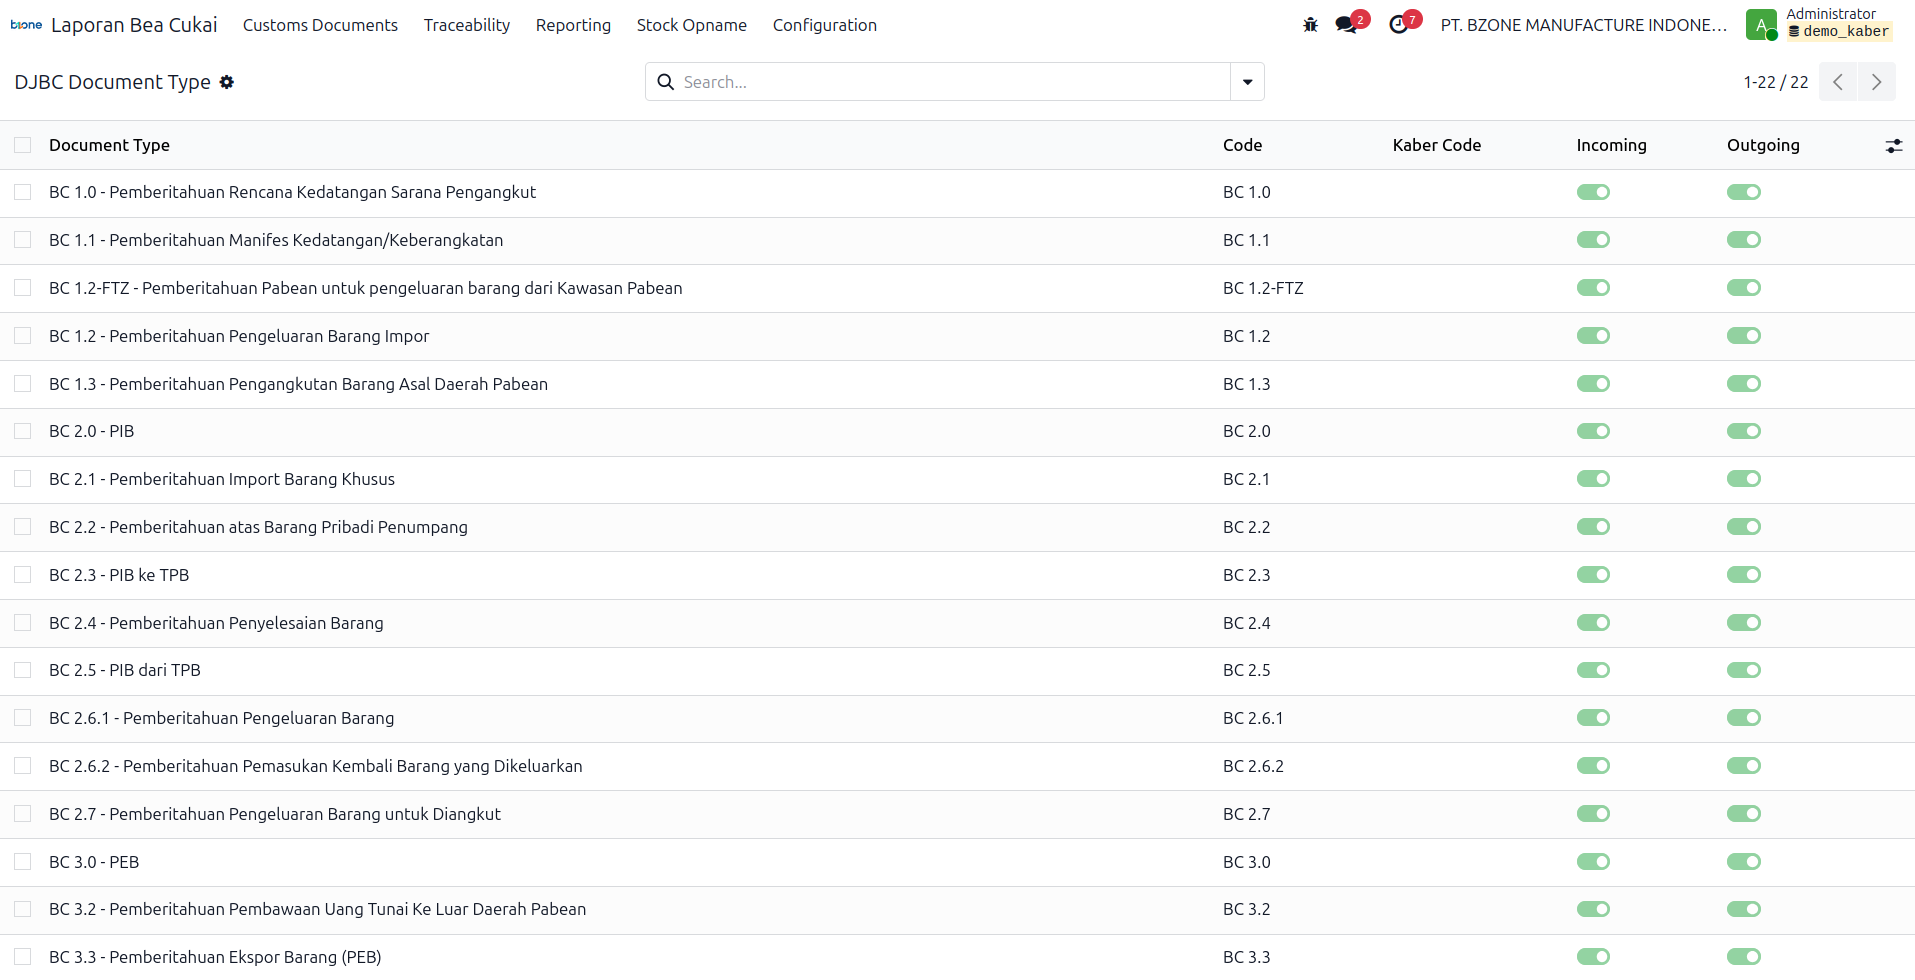
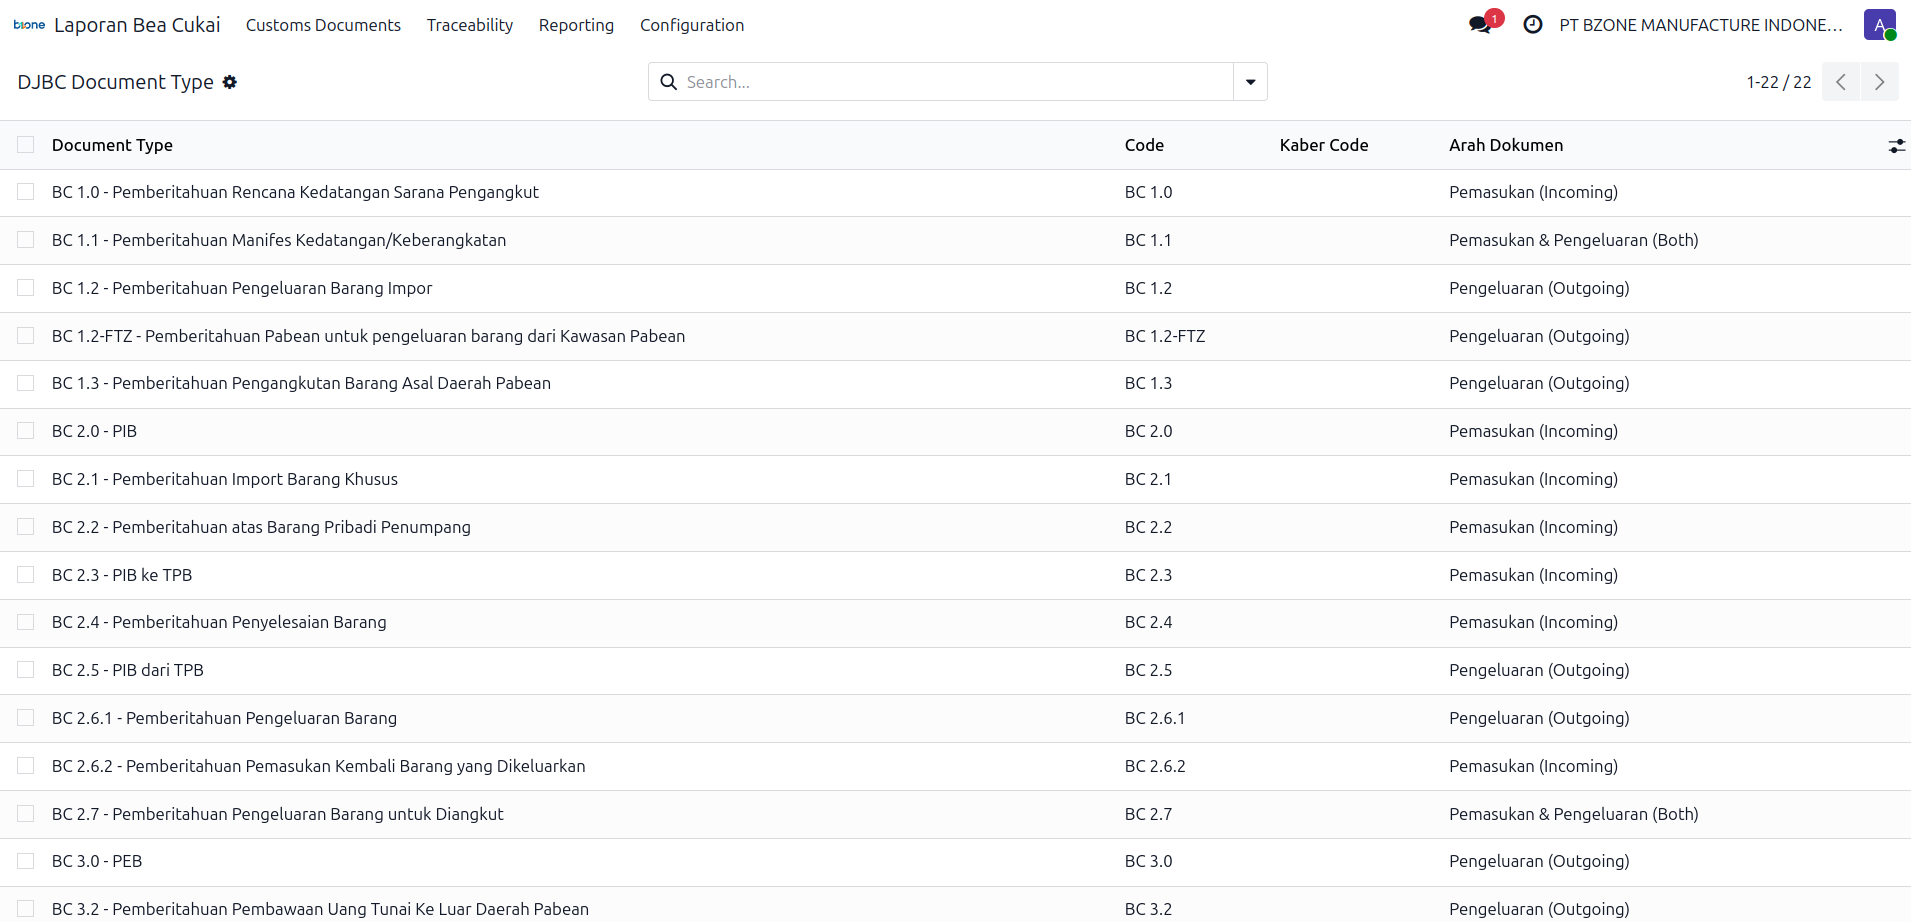
[ADD]rule expor pkb

diff --git a/CHECKPOINT_REORGANISASI_ASSETS.md b/CHECKPOINT_REORGANISASI_ASSETS.md
@@ -1,0 +1,133 @@
+# Checkpoint: Rencana Reorganisasi Tangkapan Layar (Screenshots) BZone Docs
+
+Dokumen ini adalah rencana dan panduan eksekusi untuk menata ulang folder `assets/images/` di `bzone_docs` agar terstruktur per modul dan mudah dicari saat dokumentasi semakin berkembang.
+
+---
+
+## 1. Struktur Target Folder
+
+Folder `assets/images/` akan dikelompokkan ke dalam subfolder berbasis modul:
+
+```text
+assets/images/
+├── common/                  # Aset umum, logo, icon, placeholder
+├── master_data/             # Produk, Mitra Bisnis, Bahan Baku, WIP
+├── djbc_core/               # Konfigurasi dasar modul pabean (UoM, Jenis Dokumen)
+├── ceisa_expor/             # Tangkapan layar alur Dokumen Ekspor (BC 3.0 / BC 3.3)
+├── ceisa_tpb/               # Tangkapan layar alur Dokumen TPB (BC 2.3, 2.7, 4.0, dsb)
+├── ceisa_impor/             # Tangkapan layar alur Dokumen Impor (BC 2.0)
+├── ceisa_ftz/               # Tangkapan layar alur Dokumen FTZ (PPFTZ)
+├── kawasan_berikat/         # IT Inventory, Mutasi, dan Rekonsiliasi Pabean
+└── operasional/             # Alur proses operasional ERP
+    ├── sales/               # Penjualan
+    ├── purchase/            # Pengadaan / Pembelian
+    ├── mrp/                 # Manufaktur & BoM
+    └── accounting/          # Keuangan, Faktur, Vendor Bill
+```
+
+---
+
+## 2. Pemetaan File Saat Ini (55 File)
+
+| Subfolder Target | File Gambar |
+| :--- | :--- |
+| **`common/`** | `icon.png`<br>`menu_utama_odoo.png`<br>`dashboard_overview.png`<br>`placeholder_screenshot.svg`<br>`placeholder_header.png`<br>`placeholder_entitas.png`<br>`placeholder_dokumen_pelengkap.png`<br>`placeholder_pengangkut.png`<br>`placeholder_kemasan.png`<br>`placeholder_keuangan.png`<br>`placeholder_barang.png` |
+| **`master_data/`** | `master_customer_form.png`<br>`master_vendor_form.png`<br>`master_produk_general.png`<br>`master_produk_routes.png`<br>`master_produk_djbc.png`<br>`barang_raw_material.png`<br>`barang_wip.png` |
+| **`djbc_core/`** | `djbc_document_type.png`<br>`djbc_uom_mapping.png` |
+| **`ceisa_expor/`** | `ceisa_expor_header.png`<br>`ceisa_expor_entitas.png`<br>`ceisa_expor_dokumen_pelengkap.png`<br>`ceisa_expor_pengangkut.png`<br>`ceisa_expor_bankdevisa.png`<br>`ceisa_expor_barang.png` |
+| **`ceisa_tpb/`** | `ceisa_tpb_header.png`<br>`ceisa_tpb_entitas.png`<br>`ceisa_tpb_dokumen_pelengkap.png`<br>`ceisa_tpb_pengangkut.png`<br>`ceisa_tpb_kemasan.png`<br>`ceisa_tpb_keuangan.png`<br>`ceisa_tpb_barang.png` |
+| **`kawasan_berikat/`** | `kb_product_category.png`<br>`kb_report_wizard.png`<br>`kb_mutasi_report_preview.png`<br>`kb_checklist_transaksi_laporan.png`<br>`kb_checklist_transaksi_laporan.svg`<br>`kb_incoming_picking.png`<br>`kb_outgoing_picking.png` |
+| **`operasional/sales/`** | `sales_quotation_mto.png`<br>`sales_order_confirmed.png`<br>`sales_register_payment.png` |
+| **`operasional/purchase/`** | `purchase_rfq_new.png`<br>`purchase_order_confirm.png`<br>`purchase_vendor_bill.png` |
+| **`operasional/mrp/`** | `mrp_bom_form.png`<br>`mrp_mo_creation.png`<br>`mrp_material_transfer.png`<br>`mrp_produce_all_done.png` |
+| **`operasional/accounting/`** | `accounting_vendor_bill_payment.png`<br>`accounting_customer_invoice_confirm.png`<br>`accounting_profit_loss_report.png` |
+
+---
+
+## 3. Skrip Eksekusi Pemindahan (Bash)
+
+Jalankan perintah ini dari terminal pada direktori `/home/addons/bzone_docs/` saat Anda siap mengeksekusinya:
+
+```bash
+cd /home/addons/bzone_docs/assets/images
+
+# 1. Buat folder target
+mkdir -p common master_data djbc_core ceisa_expor ceisa_tpb ceisa_impor ceisa_ftz kawasan_berikat operasional/sales operasional/purchase operasional/mrp operasional/accounting
+
+# 2. Pindahkan file kategori Common
+mv icon.png menu_utama_odoo.png dashboard_overview.png placeholder_* common/ 2>/dev/null || true
+
+# 3. Pindahkan file kategori Master Data
+mv master_customer_form.png master_vendor_form.png master_produk_*.png barang_raw_material.png barang_wip.png master_data/ 2>/dev/null || true
+
+# 4. Pindahkan file kategori DJBC Core
+mv djbc_document_type.png djbc_uom_mapping.png djbc_core/ 2>/dev/null || true
+
+# 5. Pindahkan file kategori CEISA Expor
+mv ceisa_expor_*.png ceisa_expor/ 2>/dev/null || true
+
+# 6. Pindahkan file kategori CEISA TPB
+mv ceisa_tpb_*.png ceisa_tpb/ 2>/dev/null || true
+
+# 7. Pindahkan file kategori Kawasan Berikat
+mv kb_*.png kb_*.svg kawasan_berikat/ 2>/dev/null || true
+
+# 8. Pindahkan file Operasional ERP
+mv sales_*.png operasional/sales/ 2>/dev/null || true
+mv purchase_*.png operasional/purchase/ 2>/dev/null || true
+mv mrp_*.png operasional/mrp/ 2>/dev/null || true
+mv accounting_*.png operasional/accounting/ 2>/dev/null || true
+```
+
+---
+
+## 4. Kompatibilitas dengan Modul `bzone_documentation`
+
+Agar pemindahan file ke subfolder tidak memutus link lama di Markdown (`404 Not Found`):
+Controller `bzone_serve_asset` di `bzone_documentation/controllers/doc_controller.py` telah memiliki kemampuan resolusi berbasis nama file (`basename`). Jika file berada di subfolder `assets/images/ceisa_expor/ceisa_expor_barang.png`, request ke `/assets/images/ceisa_expor_barang.png` dapat ditemukan secara rekursif.
+
+---
+
+## 5. Skrip Pengecekan Gambar yang Tidak Digunakan (Optional)
+
+Skrip Python berikut dapat disimpan dan dijalankan untuk mengecek apakah ada gambar di `assets/images/` yang tidak pernah dirujuk dalam dokumen Markdown (`id/`, `en/`, `c_zh/`):
+
+```python
+import os
+import re
+
+ROOT_DIR = "/home/addons/bzone_docs"
+IMAGES_DIR = os.path.join(ROOT_DIR, "assets", "images")
+LANG_DIRS = [os.path.join(ROOT_DIR, d) for d in ["id", "en", "c_zh"]]
+
+# 1. Kumpulkan semua gambar yang ada di disk
+all_images = set()
+for root, _, files in os.walk(IMAGES_DIR):
+    for f in files:
+        if f.lower().endswith(('.png', '.jpg', '.jpeg', '.svg', '.webp')):
+            all_images.add(f)
+
+# 2. Pindai referensi di semua file markdown
+referenced_images = set()
+img_pattern = re.compile(r'!\[.*?\]\((.*?)\)')
+
+for ldir in LANG_DIRS:
+    for root, _, files in os.walk(ldir):
+        for f in files:
+            if f.endswith('.md'):
+                fpath = os.path.join(root, f)
+                with open(fpath, 'r', encoding='utf-8', errors='ignore') as fp:
+                    content = fp.read()
+                    matches = img_pattern.findall(content)
+                    for m in matches:
+                        clean_name = os.path.basename(m.split('?')[0].split('#')[0])
+                        referenced_images.add(clean_name)
+
+# 3. Tampilkan hasil
+unused = sorted(list(all_images - referenced_images))
+print(f"Total gambar di assets: {len(all_images)}")
+print(f"Total gambar dirujuk di dokumen: {len(referenced_images)}")
+print(f"Gambar yang tidak terpakai ({len(unused)}):")
+for u in unused:
+    print(f"  - {u}")
+```

diff --git a/id/djbc_ceisa_expor/ketentuan_ekspor_biasa_dan_pkb.md b/id/djbc_ceisa_expor/ketentuan_ekspor_biasa_dan_pkb.md
@@ -1,0 +1,102 @@
+# Ketentuan Ekspor Biasa vs Kesiapan Barang (PKB) & Jenis Pengangkutan
+
+Dokumen ini menjelaskan ketentuan kepabeanan dan aturan teknis pada modul **`djbc_ceisa_expor`** (BC 3.0 / PEB) terkait penanganan **Pemberitahuan Kesiapan Barang (PKB)** pada Ekspor Biasa serta referensi **Jenis Pengangkutan**.
+
+---
+
+## 1. Regulasi & Konsep Kepabeanan (BC 3.0)
+
+Berdasarkan peraturan Direktorat Jenderal Bea dan Cukai (PER-09/BC/2021 dan PMK terkait tatalaksana ekspor):
+
+| Jenis Ekspor | Karakteristik Jalur | Kewajiban Kesiapan Barang (PKB) di Awal |
+|---|---|---|
+| **Ekspor Biasa (Kode 1)** | Default **Jalur Hijau** (langsung terbit NPE tanpa pemeriksaan fisik di tempat penimbunan eksportir). | **TIDAK PERLU**. Pengajuan PEB dikirim tanpa jadwal PKB. PKB baru relevan jika Bea Cukai menerbitkan respon **PPB** (Pemberitahuan Pemeriksaan Barang / Jalur Merah). |
+| **Re-Ekspor (Kode 5)** | Wajib pemeriksaan fisik pabean sebelum barang dimuat ke sarana pengangkut. | **WAJIB**. Eksportir wajib menyampaikan data PIC, lokasi barang siap periksa, dan tanggal PKB pada saat pengajuan dokumen. |
+| **Ekspor Fasilitas Khusus** | Menyesuaikan profil risiko dan skema fasilitas impor sementara/KITE. | Menyesuaikan penetapan pemeriksaan pabean. |
+
+> [!IMPORTANT]
+> **Prinsip Utama:** Pada **Ekspor Biasa**, sistem **TIDAK BOLEH** mengirimkan data `tanggalPeriksa` atau isi child array `kesiapanBarang` ke API CEISA. Jika data ini terkirim, mesin otomasi CEISA 4.0 akan menginterpretasikan bahwa eksportir meminta pemeriksaan fisik, sehingga status/tab **PKB akan muncul aktif di portal CEISA**.
+
+---
+
+## 2. Mekanisme & Logika Teknis di B-Zone
+
+Untuk memastikan dokumen Ekspor Biasa tidak memicu timbulnya PKB di portal CEISA, B-Zone menerapkan kontrol berikut:
+
+### A. Otomasi Deteksi Re-Ekspor (`is_re_ekspor`)
+Model `ceisa.export.document` memiliki compute field `is_re_ekspor`:
+* Bernilai `True` jika `kode_dokumen` adalah BC 3.0 (`30`) dan `kode_jenis_ekspor` bernilai kode `5` atau mengandung kata *re-ekspor* / *re-export*.
+* Bernilai `False` jika memilih **Ekspor Biasa (Kode 1)** atau jenis ekspor non-pemeriksaan lainnya.
+
+### B. Kontrol Tampilan Form (UI)
+* **Field Header `tanggal_periksa` (Tanggal Pemeriksaan):**
+  * Disembunyikan dan **tidak wajib** jika `is_re_ekspor = False`.
+  * Hanya muncul dan **wajib** diisi jika `is_re_ekspor = True`.
+* **Tab Kesiapan Barang (PKB):**
+  * Otomatis tersembunyi jika dokumen adalah Ekspor Biasa.
+  * Jika user sempat mengisi baris kesiapan lalu mengubah jenis ekspor ke Ekspor Biasa, sistem otomatis mengosongkan baris tersebut via onchange.
+
+### C. Serializer Payload API CEISA (`_prepare_ceisa_export_data`)
+Saat menyusun JSON untuk endpoint `POST /openapi/document`:
+```python
+'tanggalPeriksa': (self.tanggal_periksa.strftime('%Y-%m-%d') if self.tanggal_periksa else '') if self.is_re_ekspor else '',
+'kesiapanBarang': self.get_kesiapan_barang(),  # Mengembalikan [] jika not is_re_ekspor
+```
+Dengan format di atas:
+* **Ekspor Biasa:** `tanggalPeriksa` terkirim sebagai string kosong `""` dan `kesiapanBarang` kosong `[]`, sehingga di portal CEISA dokumen diproses normal sebagai ekspor umum.
+* **Re-Ekspor:** `tanggalPeriksa` dan rincian `kesiapanBarang` (PIC, nomor telpon, lokasi siap periksa, kontainer, tanggal PKB, waktu siap periksa) terkirim lengkap sesuai skema JSON CEISA 4.0.
+
+---
+
+## 3. Referensi Pengangkutan: Cara Angkut vs Jenis Pengangkutan
+
+Pada formulir PEB BC 3.0 terdapat dua elemen pengangkutan yang berbeda fungsi:
+
+```mermaid
+graph LR
+    A["Dokumen Ekspor BC 3.0"] --> B["F.17: Cara Pengangkutan (kodeCaraAngkut)"]
+    A --> C["F.21: Jenis Pengangkutan (kodeJenisPengangkutan)"]
+    B --> D["ceisa.ref.angkut (Moda Transportasi)"]
+    C --> E["ceisa.ref.pengangkut (Metode Pengangkutan)"]
+```
+
+### 1. Cara Pengangkutan (F.17 — `kodeCaraAngkut`)
+* Model Odoo: **`ceisa.ref.angkut`**
+* Terletak di tab child **Pengangkut** (`ceisa.export.pengangkut`).
+* Menyatakan moda transportasi fisik:
+  * `1` — LAUT
+  * `2` — KERETA API
+  * `3` — DARAT
+  * `4` — UDARA
+  * `5` — POS
+  * `6` — MULTIMODA
+  * `7` — INSTALASI / PIPA
+  * `8` — PERAIRAN
+  * `9` — LAINNYA
+
+### 2. Jenis Pengangkutan (F.21 — `kodeJenisPengangkutan`)
+* Model Odoo: **`ceisa.ref.pengangkut`**
+* Terletak di **Header Dokumen Ekspor** (field `kode_jenis_pengangkutan`).
+* Menyatakan skema pengangkutan barang ekspor:
+  * `1` — SATU SARANA ANGKUT
+  * `2` — INSTALASI/PIPA/TRANSMISI
+  * `3` — ANGKUT LANJUT
+  * `4` — ANGKUT LANJUT MULTIMODA
+  * `5` — BARANG BAWAAN PENUMPANG / AWAK SARKUT
+  * `6` — SARANA ANGKUT LAINNYA
+
+---
+
+## 4. Panduan Operasional & Troubleshooting
+
+### Kasus: Mengapa di Web CEISA Masih Muncul PKB Padahal Sudah Pilih Ekspor Biasa?
+
+Jika pengguna menemukan dokumen yang di B-Zone dipilih Ekspor Biasa namun di portal CEISA tetap muncul tab/status PKB, lakukan pengecekan berikut:
+
+1. **Dokumen Dibuat/Dikirim Sebelum Pembaruan:**
+   * Jika dokumen dikirim sebelum tanggal 20 Oktober 2026, data `tanggalPeriksa` atau `kesiapanBarang` telah terlanjur masuk ke database Bea Cukai.
+   * **Solusi:** Buat dokumen **Draft Baru** di B-Zone dengan jenis Ekspor Biasa, konfirmasi, dan kirim ulang dengan Nomor Aju baru.
+2. **Pastikan Jenis Ekspor Benar:**
+   * Pastikan field **Jenis Ekspor** pada header bernilai **`1 - EKSPOR BIASA`**, bukan jenis Re-Ekspor.
+3. **Cek Tanggal Periksa:**
+   * Pada form B-Zone, pastikan field *Tanggal Pemeriksaan* tidak muncul/tidak terisi untuk Ekspor Biasa.

diff --git a/id/djbc_ceisa_expor/dokumentasi_expor.md b/id/djbc_ceisa_expor/dokumentasi_expor.md
@@ -61,6 +61,8 @@ Buka menu **DJBC CEISA > Ekspor > Ekspor Documents** lalu klik **Create**.
 * **Kode Asuransi** — `LN` (Luar Negeri) atau `DN` (Dalam Negeri).
 * **Flag Curah** & **Flag Migas** — Pilih `1` (Ya) atau `2` (Tidak).
 * **FOB, Freight, Asuransi, CIF, NDPBM** — Nilai transaksi ekspor.
+* **Jenis Pengangkutan (`kode_jenis_pengangkutan`)** — Pilih metode pengangkutan (F.21) dari referensi `ceisa.ref.pengangkut` (misal `1 - SATU SARANA ANGKUT`).
+* **Tanggal Pemeriksaan (`tanggal_periksa`)** — Hanya muncul dan wajib jika Jenis Ekspor adalah **Re-Ekspor**. Pada Ekspor Biasa, field ini otomatis disembunyikan.
 
 | Field | BC 3.0 | BC 3.3 |
 |---|---|---|
@@ -97,7 +99,7 @@ Gunakan kode referensi CEISA untuk setiap dokumen pelengkap (Invoice `380`, B/L 
 ### Langkah 4: Tab Kemasan, Pengangkut, Kontainer
 
 * **Kemasan** — Isi jumlah dan satuan (CTN, PLT, PK, dll.).
-* **Pengangkut** — Pilih moda dan nama sarana angkut. Pada BC 3.3, isi juga `kode_cara_angkut_plb` (cara pengangkutan ke PLB).
+* **Pengangkut** — Pilih moda Cara Pengangkutan (`kode_cara_angkut` — F.17) dan nama sarana angkut. Pada BC 3.3, isi juga `kode_cara_angkut_plb` (cara pengangkutan ke PLB).
 * **Kontainer** — Nomor kontainer 11 digit dan ukuran. Field header `jumlah_kontainer` wajib diisi (isi `0` jika tanpa kontainer).
 
   ![Pengangkut Ekspor](/assets/images/ceisa_expor_pengangkut.png)
@@ -105,7 +107,7 @@ Gunakan kode referensi CEISA untuk setiap dokumen pelengkap (Invoice `380`, B/L 
 ### Langkah 5: Tab Bank Devisa & Kesiapan Barang (PKB)
 
 * **Bank Devisa** — Isi data bank yang menerima devisa hasil ekspor.
-* **Kesiapan Barang (PKB)** — Tab ini hanya muncul dan wajib diisi jika Jenis Ekspor yang dipilih adalah **Re-Ekspor** (kode referensi 5 / Re-Ekspor lainnya). Untuk **Ekspor Biasa**, tab ini otomatis tersembunyi dan tidak dibutuhkan.
+* **Kesiapan Barang (PKB)** — Tab ini hanya muncul dan wajib diisi jika Jenis Ekspor yang dipilih adalah **Re-Ekspor** (kode referensi 5 / Re-Ekspor lainnya). Untuk **Ekspor Biasa**, tab ini otomatis tersembunyi dan tidak dikirim ke CEISA agar tidak memicu status PKB di portal CEISA. Panduan detail regulasi & teknis dapat dibaca di [Ketentuan Ekspor Biasa, PKB & Pengangkutan](ketentuan_ekspor_biasa_dan_pkb.md).
 
   ![Bank Devisa dan Kesiapan Ekspor](/assets/images/ceisa_expor_bankdevisa.png)
 
